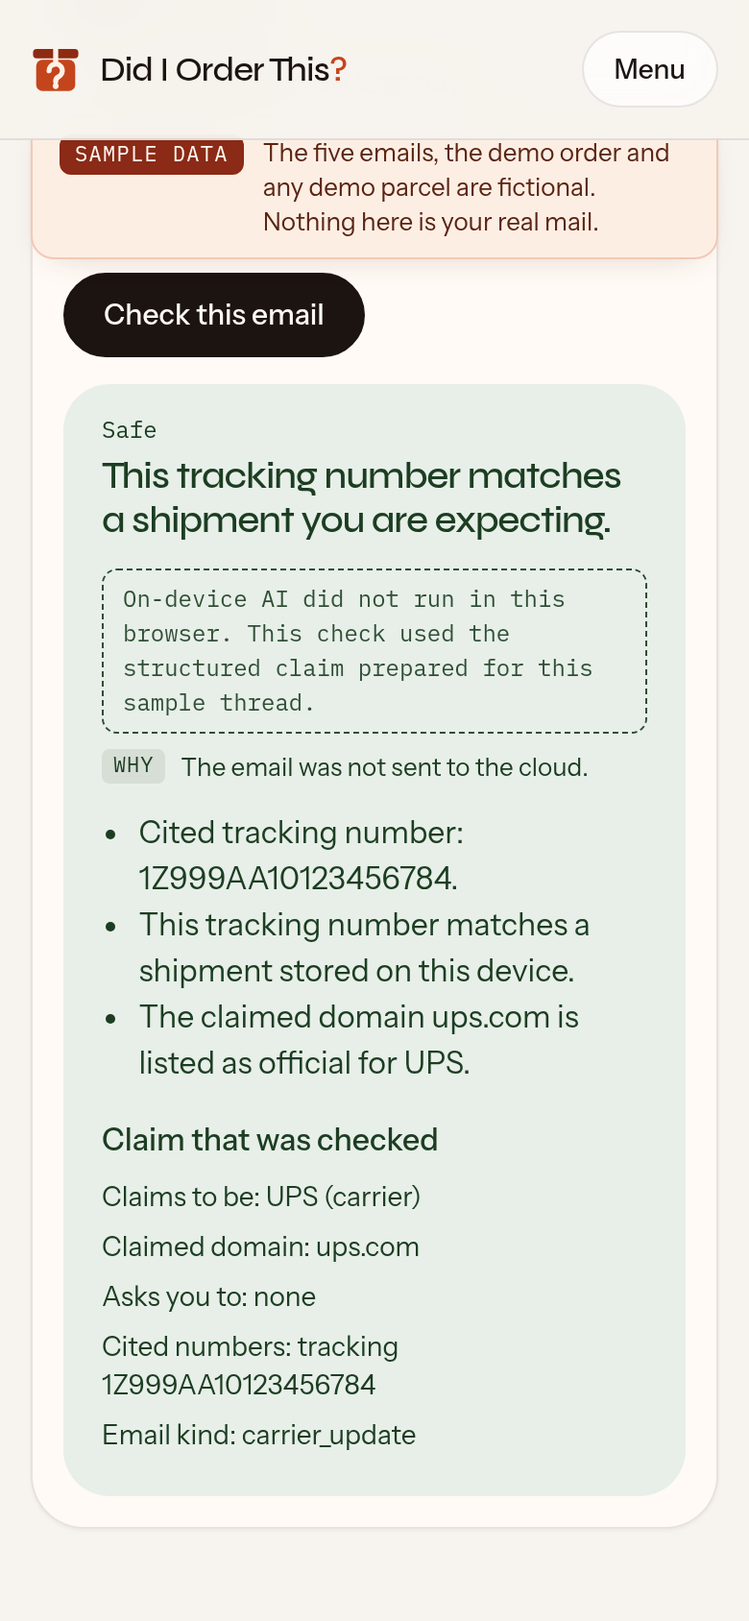
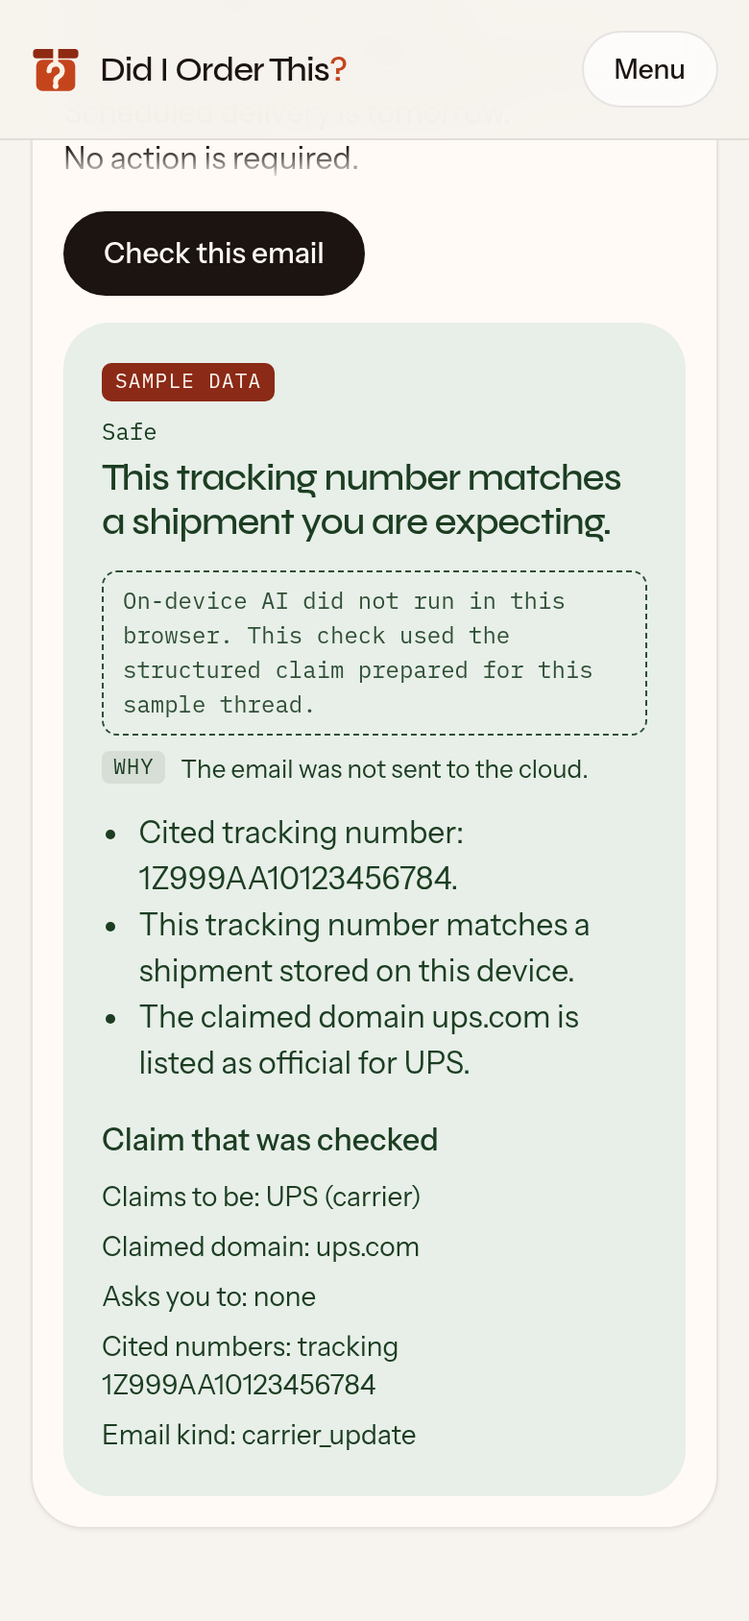
Record the S25 cloud walk and refresh proofs after UI-NEXT 11 and 12
The Galaxy S25 Chrome Android cloud path is now proven, including Ask me
each time. Telegram and X in-app browsers also returned Checked in the
cloud. README screenshots retaken at 390 px from production 598cf21.
On-device film runs 44009266512 and 44009272463 passed. UI-NEXT 11 to 13
marked done; item 14 notes a 1280x800 desktop scroll gap.

diff --git a/README.md b/README.md
@@ -3,7 +3,7 @@
 **For judges:** open the [sample inbox](https://did-i-order-this.vercel.app/app/), click the first thread (**DHL Express Desk**, **Your parcel is held. Pay the release fee.**), click **Check this email**, and read the verdict: **You're not expecting any parcel right now.** Then click **Load the matching shipment demo** and check the UPS email: **This tracking number matches a shipment you are expecting.** No login.
 
 <p align="center">
-  <img src="docs/images/sample-verdict-prepared.png" width="260" alt="The live sample inbox at 390-pixel width after Do not send, under the Sample data bar: Warning, You're not expecting any parcel right now, with the note that on-device AI did not run and the structured claim prepared for this sample thread was used, plus the reasons and the claim that was checked.">
+  <img src="docs/images/sample-verdict-prepared.png" width="260" alt="The live sample inbox at 390-pixel width after Do not send: a SAMPLE DATA tag on the verdict card, Warning, You're not expecting any parcel right now, with the note that on-device AI did not run and the structured claim prepared for this sample thread was used, plus the reasons and the claim that was checked.">
 </p>
 
 **Check a delivery or billing email against the orders and tracking numbers on your own device, before you click.**
@@ -42,11 +42,11 @@ To check the code itself: `npm ci`, then `npm run verify`. It prints `PASS` or `
 
 ## Proof It's Real
 
-- **On-device run on the current build, public GitHub runner:** [nano-film run 43968899989](https://github.com/ohjay-official/nano-film/actions/runs/43968899989) (16 Nov 2026, 23:20 Africa/Lagos, production at `f87d165`, after the UI-NEXT commits) loaded the live `/app/` page in Chrome 157.0.8103.50 with Gemini Nano and got **Checked on this device** (`inferenceSource` `on_device`), **Warning**, **You're not expecting any parcel right now.**, and no cloud consent. The run just before it ([43967837755](https://github.com/ohjay-official/nano-film/actions/runs/43967837755)) failed before the page check, because Chrome on that runner could not start a Nano session; the rerun passed. Earlier runs: [43950308139](https://github.com/ohjay-official/nano-film/actions/runs/43950308139) (16 Nov, `9c6e0cc`), [43947306478](https://github.com/ohjay-official/nano-film/actions/runs/43947306478) (16 Nov, `9098021`), [43682923396](https://github.com/ohjay-official/nano-film/actions/runs/43682923396) (15 Nov) and [43219012008](https://github.com/ohjay-official/nano-film/actions/runs/43219012008) (12 Nov). Private 2 vCPU runners cannot run Nano, so the proof runs from the public `ohjay-official/nano-film` repo; this repo keeps a copy of the workflow at `.github/workflows/on-device-demo.yml`.
-- **Extension on-device run, public GitHub runner:** [nano-film run 43967844787](https://github.com/ohjay-official/nano-film/actions/runs/43967844787) (16 Nov 2026, 23:15 Africa/Lagos, production at `f87d165`) downloaded the live judge zip, loaded it unpacked into Chrome 157.0.8103.50 with Gemini Nano, opened the side panel on a local Gmail-thread fixture, and got **Checked on this device** (`on_device`), the same headline, and no cloud consent. The runner adds `http://127.0.0.1:8123/*` to the installed manifest's content script matches because it cannot sign into Gmail; the JavaScript in the zip is unchanged. Earlier passes: [43952581780](https://github.com/ohjay-official/nano-film/actions/runs/43952581780) (16 Nov, `9c6e0cc`, after one runner that could not start Nano, [43950314547](https://github.com/ohjay-official/nano-film/actions/runs/43950314547)), [43947314820](https://github.com/ohjay-official/nano-film/actions/runs/43947314820) (16 Nov) and [43685102643](https://github.com/ohjay-official/nano-film/actions/runs/43685102643) (15 Nov).
+- **On-device run on the current build, public GitHub runner:** [nano-film run 44009266512](https://github.com/ohjay-official/nano-film/actions/runs/44009266512) (17 Nov 2026, 04:18 to 04:24 Africa/Lagos, production at `598cf21`, after UI-NEXT 11 and 12) loaded the live `/app/` page in Chrome 157.0.8103.50 with Gemini Nano and got **Checked on this device** (`inferenceSource` `on_device`), **Warning**, **You're not expecting any parcel right now.**, and no cloud consent. Earlier runs: [43968899989](https://github.com/ohjay-official/nano-film/actions/runs/43968899989) (16 Nov, `f87d165`, after one runner that could not start Nano, [43967837755](https://github.com/ohjay-official/nano-film/actions/runs/43967837755)), [43950308139](https://github.com/ohjay-official/nano-film/actions/runs/43950308139) (16 Nov, `9c6e0cc`), [43947306478](https://github.com/ohjay-official/nano-film/actions/runs/43947306478) (16 Nov, `9098021`), [43682923396](https://github.com/ohjay-official/nano-film/actions/runs/43682923396) (15 Nov) and [43219012008](https://github.com/ohjay-official/nano-film/actions/runs/43219012008) (12 Nov). Private 2 vCPU runners cannot run Nano, so the proof runs from the public `ohjay-official/nano-film` repo; this repo keeps a copy of the workflow at `.github/workflows/on-device-demo.yml`.
+- **Extension on-device run, public GitHub runner:** [nano-film run 44009272463](https://github.com/ohjay-official/nano-film/actions/runs/44009272463) (17 Nov 2026, 04:18 to 04:23 Africa/Lagos, production at `598cf21`) downloaded the live judge zip, loaded it unpacked into Chrome 157.0.8103.50 with Gemini Nano, opened the side panel on a local Gmail-thread fixture, and got **Checked on this device** (`on_device`), the same headline, and no cloud consent. The runner adds `http://127.0.0.1:8123/*` to the installed manifest's content script matches because it cannot sign into Gmail; the JavaScript in the zip is unchanged. Earlier passes: [43967844787](https://github.com/ohjay-official/nano-film/actions/runs/43967844787) (16 Nov, `f87d165`), [43952581780](https://github.com/ohjay-official/nano-film/actions/runs/43952581780) (16 Nov, `9c6e0cc`, after one runner that could not start Nano, [43950314547](https://github.com/ohjay-official/nano-film/actions/runs/43950314547)), [43947314820](https://github.com/ohjay-official/nano-film/actions/runs/43947314820) (16 Nov) and [43685102643](https://github.com/ohjay-official/nano-film/actions/runs/43685102643) (15 Nov).
 - **What Nano actually returned** in run 43947306478: the display name **DHL Express Desk** as the domain and the fee **$2.99** as the only cited number, missing the tracking number. The verdict was still right because the claim said carrier and no parcel was expected. Since then, `reconcileClaim()` in `packages/core/src/reconcile.ts` fills both gaps from the email text in code (sender domain from the From line, tracking-shaped numbers from the body), so the UPS match no longer depends on the model spotting the number. In run 43950308139, on the build with `reconcileClaim()`, the checked claim showed the domain `dhl-parcel-desk.example` and the tracking number GM123456789012345.
-- **Cloud check on the current build:** not recorded yet. The build machine's automated Chrome is rejected by App Check (reCAPTCHA Enterprise), and the page then shows the prepared-claim note with **The cloud check could not run. This page could not prove it is the real site (App Check). Reload the page and try again.** A real-phone cloud test is pending.
-- **Tests:** 164 unit tests (core 66, web 85, extension 13), re-run 16 Nov 2026 (Africa/Lagos). `npm test` runs them. Core coverage the same day: 96.95% statements (446/460) and 89.61% branches (345/385), gated at 95% statements and 85% branches in `packages/core/vitest.config.ts`.
+- **Cloud check on the current build:** recorded 17 Nov 2026 (Africa/Lagos) on a Galaxy S25. In Chrome Android, against production `db64fcc`, the first DHL thread after **Check in the cloud** showed **Warning**, **You're not expecting any parcel right now.**, **Checked in the cloud**, and **Ask me each time**. After **Load the matching shipment demo**, the UPS thread showed **Safe**, **This tracking number matches a shipment you are expecting.**, **Checked in the cloud**, with no second consent dialog. The same morning, after UI-NEXT 11 and 12 (`598cf21`), the Telegram and X in-app browsers on that phone each checked the first DHL thread with the demo shipment already stored and showed **Warning**, **This tracking number is not one of your shipments.**, **Checked in the cloud**, the **SAMPLE DATA** tag on the verdict card, and **Ask me each time**. The model-filled claim text varied (Telegram: **Claims to be: DHL (carrier)**, **Email kind: carrier_update**; X: **Claims to be: DHL Express Desk (carrier)**, **Email kind: delivery_problem**); the verdict was the same, because code decides it. The build machine's automated Chrome is still rejected by App Check (reCAPTCHA Enterprise) and then shows the prepared-claim note.
+- **Tests:** 164 unit tests (core 66, web 85, extension 13), re-run 17 Nov 2026 (Africa/Lagos). `npm test` runs them. Core coverage the same day: 96.95% statements (446/460) and 89.61% branches (345/385), gated at 95% statements and 85% branches in `packages/core/vitest.config.ts`.
 - **CI:** `.github/workflows/ci.yml` runs `npm run verify -- --offline` on every push to `main` and on pull requests.
 - **Lighthouse** (mobile, production `c94c806`, 16 Nov 2026, run from the build machine): Accessibility, Best Practices and SEO 100 on all 9 routes; Performance 99 or 100 on all 9 (home 99, Total Blocking Time 20 ms). Earlier the same day the home page scored 80 and `/features/` Accessibility 91; both were fixed by the UI owner.
 - **No real users yet.** Three testers are scheduled for 26 to 28 Nov 2026.
@@ -82,8 +82,8 @@ Platform and prize category names are taken from the [#BuildHybridAI 2026](https
 | Prepared-claim fallback on sample threads when on-device AI and the cloud are not used or fail | Works on the live site (walked on 16 Nov 2026 in desktop Chrome at 1280 and 390 pixels) |
 | **Load the matching shipment demo** after the first check | Works on the live site |
 | On-device check through Firebase AI Logic (Gemini Nano in Chrome) | Works where Chrome's on-device model is available; proven on a public runner (links above) |
-| Cloud check after consent | Built and called on the live site. A cloud verdict on the current build is not recorded yet (see Proof) |
-| Remember a cloud yes for sample threads until the tab closes | Works; **Ask me each time** clears it. Pasted emails are always asked about |
+| Cloud check after consent | Works on the live site. Recorded 17 Nov 2026 on a Galaxy S25 in Chrome Android, and again in the Telegram and X in-app browsers (see Proof) |
+| Remember a cloud yes for sample threads until the tab closes | Works; **Ask me each time** clears it. Pasted emails are always asked about. The remembered-yes note and **Ask me each time** were seen on the S25 Chrome, Telegram and X runs |
 | Limited check with no AI | Works |
 | Paste your own email and check it | Works |
 | Import order history (Amazon ZIP or CSV, PayPal CSV, generic CSV), parsed in the browser | Works |
@@ -160,12 +160,12 @@ Permissions: `storage` and `sidePanel` only, plus a content script on `https://m
   <img src="docs/images/home.png" width="160" alt="The live home page at 390-pixel width, with the headline Got a parcel email? See if it's yours, and a Check field.">
   <img src="docs/images/sample-inbox.png" width="160" alt="The sample inbox on the live site at 390-pixel width: the Sample data bar, the line 1 order and 0 expected parcels are stored on this device, a swipeable row of threads with DHL Express Desk open, and the Check this email button on the first screen.">
   <img src="docs/images/cloud-consent.png" width="160" alt="The cloud consent dialog on the live sample inbox at 390-pixel width, titled Check this email in the cloud, with Check in the cloud and Do not send buttons; keyboard focus starts on Do not send.">
-  <img src="docs/images/ups-match-prepared.png" width="160" alt="The UPS sample email after Load the matching shipment demo, at 390-pixel width: Safe, This tracking number matches a shipment you are expecting, using the structured claim prepared for this sample thread.">
+  <img src="docs/images/ups-match-prepared.png" width="160" alt="The UPS sample email after Load the matching shipment demo, at 390-pixel width: a SAMPLE DATA tag on the verdict card, Safe, This tracking number matches a shipment you are expecting, using the structured claim prepared for this sample thread.">
 </p>
 
-<p align="center"><em>Captures of the live site on 16 Nov 2026 (Africa/Lagos), at 390-pixel width, with sample data. The two verdicts use the prepared sample claim (Do not send), not an AI read.</em></p>
+<p align="center"><em>Captures of the live site on 17 Nov 2026 (Africa/Lagos), at 390-pixel width, after UI-NEXT 11 and 12, with sample data. The two verdicts use the prepared sample claim (Do not send), not an AI read. On phones the SAMPLE DATA tag sits on the verdict card.</em></p>
 
-A live AI verdict could not be captured from the machine that wrote this README: its Chrome has no Gemini Nano, and App Check rejects the automated browser. The on-device verdict is in the runner proof linked above.
+A live on-device AI verdict could not be captured from the machine that wrote this README: its Chrome has no Gemini Nano, and App Check rejects the automated browser. The on-device verdict is in the runner proof linked above. A live cloud verdict was recorded on a Galaxy S25 (see Proof); those phone screenshots stay off this repo because they include browser chrome or a status bar.
 
 ## What It Does
 
@@ -251,7 +251,7 @@ git log --reverse --format='%h %ad %s' --date=iso | head -3
   - **Demonstration video:** required on the Devpost form, at most 3 minutes, on YouTube. `TBD-post-build: film URL`
   - **No production secrets in the repo, form, or testing instructions:** `.env.example` uses placeholders only; `npm run verify` scans for secrets.
 
-- **AI code:** Grok Bot wrote the product code, the tests, the docs, and the verify pipeline, directed by Oh-Jay. Claude did the planning on 11 and 12 Nov 2026, and Claude Opus 5.5 landed the v7 UI commits on `main` on 15 Nov 2026 (`16fc66e`, `b1f076d`, `8bb5936`) and the ten UI-NEXT commits on 16 Nov 2026 (`184f42f` to `f87d165`), each with a Co-Authored-By line; UI and UX work is Claude's. Oh-Jay chose the idea, wrote the product and design briefs, made the product decisions, and reviewed every build on his phone.
+- **AI code:** Grok Bot wrote the product code, the tests, the docs, and the verify pipeline, directed by Oh-Jay. Claude did the planning on 11 and 12 Nov 2026, and Claude Opus 5.5 landed the v7 UI commits on `main` on 15 Nov 2026 (`16fc66e`, `b1f076d`, `8bb5936`), the ten UI-NEXT commits on 16 Nov 2026 (`184f42f` to `f87d165`), and UI-NEXT 11 and 12 on 17 Nov 2026 (`720cdbd`, `598cf21`), each with a Co-Authored-By line; UI and UX work is Claude's. Oh-Jay chose the idea, wrote the product and design briefs, made the product decisions, and reviewed every build on his phone.
 - **Earlier work reused:** the on-device warm-up approach in `e2e/` follows Oh-Jay's own `nano-probe` test from 12 Nov 2026. Photos, the globe texture, the hands, and the freight clip are media files Oh-Jay supplied. The CSS follows parts of the unslop design checklist by Damir Sokolovsky (CC BY 4.0), credited in `web/src/styles-v6.css`.
 - **The live site will stay up through judging and after.**
 
@@ -270,6 +270,7 @@ Services: Firebase AI Logic with the Gemini Developer API (model `gemini-3.5-fla
 - **13 and 14 Nov 2026:** no commits.
 - **15 Nov 2026 (15 commits, 3 of them Claude's UI):** v6 landing (globe, freight scroll, night footer) and VP9 video fallback; v6.1 real media and footer; v6.2 logo, favicons, per-page meta and OG images, JSON-LD, privacy policy, Vercel Analytics and Speed Insights, client cloud budget, contrast fixes, faster hero; backend pass: extension messaging checks and fewer permissions, judge zip, plain-language AI errors, the free-tier review notice on the consent dialog, CSP and security headers, lint, more tests with a coverage gate, `npm run verify`; README and the extension on-device proof citation; Claude's v7 UI commits.
 - **16 Nov 2026:** judge-demo fixes (fail fast without an on-device model, client cloud cap raised to 10 a minute, tab-session memory for a cloud yes, the matching shipment demo loader, the prepared-claim fallback on sample threads, a 20-second cloud timeout, the `/extension-demo/` test page, `docs/TESTING.md`); Node 22.22 as the minimum; this README; the pre-submit test run and its fixes (lookalike-domain warning, claim gap filling, 20,000-character model input cap, consent dialog keyboard); a pre-submit QA pass that stopped a re-imported order history from adding duplicate orders and shipments, and fixed the privacy policy to name the real consent button; Claude's ten UI-NEXT commits (Sample data bar, swipeable thread row on phones, styled notes and focus ring, extension test page link and style, Real UPS chip note, `/features/` contrast, faster home page, consent mockups matching the real dialog); a fix so the homepage Real UPS chip keeps its demo shipment on a brand-new device.
+- **17 Nov 2026:** Claude's UI-NEXT 11 and 12 (`720cdbd`, `598cf21`): after a check, the verdict card scrolls into view on phones (headline at y=153 of 844); the Sample data bar is no longer sticky on phones, and a SAMPLE DATA tag sits on the verdict card. A Galaxy S25 cloud walk in Chrome Android, then in the Telegram and X in-app browsers, recorded real **Checked in the cloud** verdicts. On-device proofs were re-run on production `598cf21` (nano-film 44009266512 and 44009272463).
 
 </details>
 

diff --git a/docs/TESTING.md b/docs/TESTING.md
@@ -1,6 +1,6 @@
 # Testing Did I Order This?
 
-Do-this, see-this steps for judges and testers. Every quoted string below was read off the screen on 16 Nov 2026 (Africa/Lagos), first in a local build and then again on the live site after the merge (`72f7212`), unless the step says otherwise. Steps 1 (Path C) and 2 were walked again on the live site at `9c6e0cc` the same evening, at 390 pixels, with the same strings, and again after the UI update at `f87d165` (16 Nov, 23:00 to 23:30 Africa/Lagos). Section 4 was re-checked at `c94c806`. No keys, tokens or accounts are needed.
+Do-this, see-this steps for judges and testers. Every quoted string below was read off the screen on 16 Nov 2026 (Africa/Lagos), first in a local build and then again on the live site after the merge (`72f7212`), unless the step says otherwise. Steps 1 (Path C) and 2 were walked again on the live site at `9c6e0cc` the same evening, at 390 pixels, with the same strings, and again after the UI update at `f87d165` (16 Nov, 23:00 to 23:30 Africa/Lagos) and after UI-NEXT 11 and 12 at `598cf21` (17 Nov, 04:18 to 04:25 Africa/Lagos). Section 4 was re-checked at `c94c806`. Path B (a real cloud verdict) was walked on a Galaxy S25 on 17 Nov 2026, first in Chrome Android at production `db64fcc`, then in the Telegram and X in-app browsers after `598cf21`. No keys, tokens or accounts are needed.
 
 Live site: https://did-i-order-this.vercel.app (sample inbox at `/app/`).
 
@@ -8,13 +8,13 @@ Live site: https://did-i-order-this.vercel.app (sample inbox at `/app/`).
 
 Open https://did-i-order-this.vercel.app/app/. The header says **1 order and 0 expected parcels are stored on this device.** If it shows a different count (for example after you tried the homepage chips), click **Reset demo data** first.
 
-1. Click the first thread, **DHL Express Desk**, **Your parcel is held. Pay the release fee.**, then click **Check this email**. On a phone the threads are one row you can swipe sideways, and **Check this email** is on the first screen; the verdict appears just below it, so scroll down a little.
+1. Click the first thread, **DHL Express Desk**, **Your parcel is held. Pay the release fee.**, then click **Check this email**. On a phone the threads are one row you can swipe sideways, and **Check this email** is on the first screen. After a check, the verdict card scrolls into view under the site header. On phones a **SAMPLE DATA** tag sits on the card itself (the Sample data bar at the top of the page is not sticky).
 2. What happens next depends on your browser. Pick the path that matches.
 
 ### Path A: Chrome with on-device AI (Gemini Nano)
 
 - No dialog appears. You see **Warning**, **You're not expecting any parcel right now.**, and **Checked on this device**.
-- Recorded on the current build on a GitHub runner with Nano: nano-film run 43968899989 (16 Nov 2026, production `f87d165`). The machine used for the other steps has no Gemini Nano.
+- Recorded on the current build on a GitHub runner with Nano: nano-film run 44009266512 (17 Nov 2026, production `598cf21`). The machine used for the other steps has no Gemini Nano.
 - To turn on-device AI on in desktop Chrome: the hackathon FAQ says to open `chrome://flags`, search for **Gemma 4 for Built-in AI**, enable it, and relaunch. The runner instead enables `chrome://flags/#optimization-guide-on-device-model` and `chrome://flags/#prompt-api-for-gemini-nano`. `chrome://on-device-internals` shows whether the model is ready. Chrome's hardware requirements apply.
 
 ### Path B: no on-device AI, you allow the cloud
@@ -22,7 +22,7 @@ Open https://did-i-order-this.vercel.app/app/. The header says **1 order and 0 e
 - A dialog asks **Check this email in the cloud?** with **Check in the cloud** and **Do not send**. Click **Check in the cloud**.
 - You should see **Warning**, **You're not expecting any parcel right now.**, **Checked in the cloud**, then **Your yes to cloud checks is remembered for sample emails until you close this tab.** and a button **Ask me each time**.
 - Later sample threads in the same tab go straight to the cloud without the dialog. A pasted email is always asked about.
-- Not run on this box: reCAPTCHA Enterprise rejects automated Chrome, so a real cloud verdict could not be produced here. The strings come from the code.
+- Walked on a Galaxy S25 on 17 Nov 2026 (Africa/Lagos). In Chrome Android, against production `db64fcc`: the first DHL thread after **Check in the cloud** showed **Warning**, **You're not expecting any parcel right now.**, **Checked in the cloud**, the remembered-yes note and **Ask me each time**. After **Load the matching shipment demo**, the UPS thread showed **Safe**, **This tracking number matches a shipment you are expecting.**, **Checked in the cloud**, with no second consent dialog, and the header said **1 order and 1 expected parcel**. The same morning, after UI-NEXT 11 and 12 (`598cf21`), the Telegram and X in-app browsers on that phone each checked the first DHL thread with the demo shipment already stored and showed **Warning**, **This tracking number is not one of your shipments.**, **Checked in the cloud**, the **SAMPLE DATA** tag on the verdict card, the remembered-yes note and **Ask me each time**. The model-filled claim text varied (Telegram: **Claims to be: DHL (carrier)**, **Email kind: carrier_update**; X: **Claims to be: DHL Express Desk (carrier)**, **Email kind: delivery_problem**); the verdict was the same, because code decides it. WhatsApp on Android has no in-app browser (it opens Chrome). reCAPTCHA Enterprise still rejects automated Chrome on the build machine, so that box cannot produce a cloud verdict itself.
 
 ### Path C: no on-device AI, you click Do not send
 
@@ -82,7 +82,7 @@ On https://did-i-order-this.vercel.app, in a browser without on-device AI and wi
 1. Download https://did-i-order-this.vercel.app/downloads/did-i-order-this-extension-0.1.0.zip and unzip it. If you downloaded it before 16 Nov 2026, download it again: the test page below needs the new copy.
 2. Open `chrome://extensions`, turn on **Developer mode**, click **Load unpacked**, and pick the inner `did-i-order-this-extension` folder.
 3. Open https://did-i-order-this.vercel.app/extension-demo/. It is labelled **Extension test fixture.** and says it is not Gmail. Open the extension's side panel from the toolbar. It shows the open sample email and **Check this email**. The buttons on the page switch between the five sample emails.
-4. With Gemini Nano you should see **Checked on this device** and the verdict (recorded on a runner with Nano on 16 Nov 2026 against the live zip, nano-film run 43967844787, using a local copy of this kind of page).
+4. With Gemini Nano you should see **Checked on this device** and the verdict (recorded on a runner with Nano on 17 Nov 2026 against the live zip, nano-film run 44009272463, using a local copy of this kind of page).
 5. Without Nano you see **Error** and **The AI read could not run. On-device AI is not available in this browser. This extension does not send mail to the cloud. Open https://did-i-order-this.vercel.app to check in the cloud after you agree, or run a limited check here.** Then **Run a limited check (no AI)** gives the limited check.
 
 The side panel and fixture were run on this box with the extension loaded unpacked and the fixture served at its live address. The extension is built to read an open Gmail thread at `mail.google.com`; a signed-in Gmail thread was not tested on this machine.

diff --git a/docs/VICTORY-TEST-2026-11-16.md b/docs/VICTORY-TEST-2026-11-16.md
@@ -8,10 +8,11 @@ PASS means the row's pass rule held. OPEN means only the owner can run it, or it
 
 | ID | Result | Evidence |
 | --- | --- | --- |
-| A1 | PARTIAL. No login; first DHL check shows **Check this email in the cloud?** with the free-tier review sentence. **Check in the cloud** on this machine fails App Check (automation), and the page falls back to the prepared claim: **Warning**, **You're not expecting any parcel right now.**, **The cloud check could not run. This page could not prove it is the real site (App Check). Reload the page and try again.** A real cloud verdict needs a human browser. | Scripted walk at 1280 px, headed Chrome |
+| A1 | PASS on a Galaxy S25 in Chrome Android (17 Nov 2026, production `db64fcc`): no login; first DHL check, **Check in the cloud**, **Warning**, **You're not expecting any parcel right now.**, **Checked in the cloud**. The automated machine used for the 16 Nov scripted walk is still PARTIAL: **Check in the cloud** fails App Check there, and the page falls back to the prepared claim with **The cloud check could not run. This page could not prove it is the real site (App Check). Reload the page and try again.** | S25 Chrome Android; scripted walk at 1280 px still shows the App Check fallback |
 | A2 | PASS. **Checked on this device**, `on_device`, same headline, no consent. | [nano-film 43947306478](https://github.com/ohjay-official/nano-film/actions/runs/43947306478) |
 | A3 | PASS. Loader, UPS **Safe**, second DHL **This tracking number is not one of your shipments.**, Streamhut **Neutral**, **Reset demo data** back to **1 order and 0 expected parcels**. After a cloud yes, later sample threads skip the dialog. | Scripted walk, 1280 and 390 px |
-| A4, A5 | OPEN: Oh-Jay's S25 (Chrome Android) and iPhone Safari. | |
+| A4 | PASS. Galaxy S25, Chrome Android, 17 Nov 2026, about 04:00 to 04:15 Africa/Lagos, production `db64fcc`. Step 1: **1 order and 0 expected parcels**. Step 2: first DHL, cloud yes, **Warning**, **You're not expecting any parcel right now.**, **Checked in the cloud**, **Ask me each time**. Step 3: **Load the matching shipment demo**, UPS, **Safe**, **This tracking number matches a shipment you are expecting.**, **Checked in the cloud**, no second consent dialog, **1 order and 1 expected parcel**. The first screenshot was in Chrome desktop-site mode; later ones used the phone layout. Both were fine. | Phone screenshots kept off this repo (browser chrome). Box evidence: `evidence/s25-cloud-2026-11-17/` on the build machine |
+| A5 | OPEN: iPhone Safari. Optional now that A4 and the Android in-app browsers have passed. | |
 | A6 | NOT RUN: no Firefox on the build machine. | |
 | A7 | PASS. No sideways scroll on 11 routes (9 sitemap routes, `/extension-demo/`, the 404) at 375, 390 and 1280 px. | `scrollWidth - clientWidth` |
 | A8 | PASS. Fake DHL warns; Real UPS stores the shipment first and shows **Safe**; Fake DHL afterwards says **This tracking number is not one of your shipments.** | Scripted run on `/` |
@@ -78,3 +79,21 @@ PASS means the row's pass rule held. OPEN means only the owner can run it, or it
 - G1: OPEN until the film exists.
 - G2: scorecard in the build notes, outside this repo.
 - G3 and G4: run from the build machine by following only the README and the live site. Mismatches found were fixed in the README in this run. A run by a separate AI session with no prior context is still to do once the repo is public.
+
+## Addendum, 17 Nov 2026 (Africa/Lagos)
+
+UI-NEXT 11 and 12 landed on `main` (`720cdbd`, `598cf21`) and were checked live on production:
+
+- After **Check this email** and **Do not send**, at 390 x 844 the verdict headline sits at y=153 (was about 830). The same landing after **Run a limited check** stays in view (y=691 of 844, already visible so the page does not scroll again). Instant scroll under `prefers-reduced-motion` (headline already at y=153 after 80 ms).
+- At 1280 x 800 after **Do not send**, the headline sits at y=754 of 800 and is treated as already visible, so the reasons sit below the fold. Handed to the UI owner as UI-NEXT item 14. Desktop demo bar stays sticky; no SAMPLE DATA tag on the card.
+- No sideways scroll on 11 routes at 375, 390 and 1280 px. Do-not-break selectors and the text "prepared for this sample thread" are intact. The SAMPLE DATA tag is a CSS `::before`, so `textContent` and `innerText` of `.result`, `.outcome` and `.headline` do not include it.
+- On-device proofs re-run on production `598cf21`: nano-film [44009266512](https://github.com/ohjay-official/nano-film/actions/runs/44009266512) (site) and [44009272463](https://github.com/ohjay-official/nano-film/actions/runs/44009272463) (extension), both **Checked on this device**, `on_device`, no consent.
+
+In-app browsers on the same S25, after the matching shipment demo was loaded, first DHL thread, cloud check, production `598cf21`:
+
+- Telegram in-app (about 04:18): PASS. **Warning**, **This tracking number is not one of your shipments.**, **Checked in the cloud**, **SAMPLE DATA** tag, **Ask me each time**. Claim text: **Claims to be: DHL (carrier)**, **Email kind: carrier_update**.
+- X in-app (about 04:26): PASS. Same verdict and labels as Telegram. Claim text: **Claims to be: DHL Express Desk (carrier)**, **Email kind: delivery_problem**.
+- WhatsApp on Android: N/A. It has no in-app browser and opens Chrome.
+- The model-filled claim text varied; the verdict was the same, because code decides it. No product fix.
+
+Phone originals stay on the build machine only. The Telegram and X shots include a status bar with personal notifications.

diff --git a/docs/UI-NEXT.md b/docs/UI-NEXT.md
@@ -29,16 +29,18 @@ Repo `ohjay-official/did-i-order-this`, `main`. Full background: `docs/HANDOFF-u
    - `div.belt` has `aria-label` with no role. Add a role (for example `role="region"`) or drop the label.
 7. **DONE** (`a6c7d5f`; Grok re-run on production: home Performance 98 to 99, Total Blocking Time 0 to 20 ms). Home Performance 80 on a re-run at `9c6e0cc` (87 earlier the same day), mobile Lighthouse: LCP 2.2 s, CLS 0, Total Blocking Time 780 ms. `main-*.js` takes about 3.7 s of throttled CPU at boot (globe and hero). Lazy-start the globe after first paint or on idle.
 8. **DONE** (`f87d165`, checked live by Grok 16 Nov). Consent mock on `/privacy/` (line ~108) and `/features/` (line ~96) still says **Send this email to the cloud?** and **Send this email**. The real dialog says **Check this email in the cloud?**, **Check in the cloud**, **Do not send**, plus the free-tier review sentence. Match the mock to the real dialog (Grok fixed only the policy fine print in PR #6).
-9. Phone checks only Oh-Jay can run, worth a look while styling: X, WhatsApp and Telegram in-app browsers on `/app/`; iPhone Safari safe areas. Grok's headless pass at 390 px in dark mode and with 200% root font size found no sideways scroll on 11 routes, but did not judge looks.
-10. **DONE 16 Nov:** README screenshots retaken at 390 px from production `f87d165`; nano-film site run 43968899989 and extension run 43967844787 passed with the selectors unchanged. After any UI change: retake the README screenshots in `docs/images/` at 390 px (Grok can do the capture), and re-run nano-film to confirm selectors.
+9. Phone checks only Oh-Jay can run. **DONE 17 Nov (Africa/Lagos) on a Galaxy S25, production `598cf21`:** Telegram in-app PASS and X in-app PASS (first DHL after the matching shipment demo: **Warning**, **This tracking number is not one of your shipments.**, **Checked in the cloud**, **SAMPLE DATA** tag, **Ask me each time**). WhatsApp on Android is N/A: it has no in-app browser and opens Chrome. **Still open (optional):** iPhone Safari safe areas. Grok's headless pass at 390 px in dark mode and with 200% root font size found no sideways scroll on 11 routes, but did not judge looks.
+10. **DONE 16 Nov, retaken 17 Nov:** README screenshots retaken at 390 px from production `598cf21` after UI-NEXT 11 and 12; nano-film site run 44009266512 and extension run 44009272463 passed with the selectors unchanged. After any UI change: retake the README screenshots in `docs/images/` at 390 px (Grok can do the capture), and re-run nano-film to confirm selectors.
 
 ## New UI items for Claude (found by Grok, 16 Nov 2026, 23:00 to 23:40 Africa/Lagos, production `f87d165`)
 
 Grok did not change any of these. Measured headless at 390 x 844 (Chrome, mobile emulation).
 
-11. **Verdict lands below the fold on a phone.** After **Check this email** (and after **Do not send**), the page does not move: the result headline starts at about y = 830 of an 844 px screen, so only the edge of the verdict card shows. Suggest scrolling the result into view after a check, landing below the sticky header and Sample data bar, with no smooth scroll under `prefers-reduced-motion`. Keep `.result`, `.headline` and `.outcome` as they are.
-12. **Sticky header plus Sample data bar cover about 135 px (16%) of the screen while you read a verdict.** Grok's screenshots had to scroll an extra 80 px so the headline was not hidden under the bar. Consider a one-line bar once stuck, or letting it scroll away after the first screen while keeping the playbook's "sample data" label visible somewhere on every screen.
-13. **Still unverified:** the styled "Ask me each time" row (needs a real cloud check; Oh-Jay's S25 test will show it).
+11. **DONE** (`720cdbd`, checked live by Grok 17 Nov on production `598cf21`). Verdict now scrolls into view after **Check this email** / **Do not send** and after **Run a limited check**. At 390 x 844 the headline sits at y=153 (was about 830). Instant scroll under `prefers-reduced-motion` (already at y=153 after 80 ms). `.result`, `.headline` and `.outcome` unchanged.
+12. **DONE** (`598cf21`, checked live by Grok 17 Nov). On phones (max-width 700 px) the Sample data bar is no longer sticky, and a **SAMPLE DATA** tag is painted on the verdict card with a CSS `::before`, so `textContent` and `innerText` of `.result`, `.outcome` and `.headline` do not include it. Desktop keeps the sticky one-line bar and has no tag on the card. After this change the phone headline lands at y=153 with `scroll-margin-top: 84px`.
+13. **DONE 17 Nov.** The styled **Ask me each time** row was seen on a Galaxy S25 after real cloud checks: Chrome Android (production `db64fcc`), then Telegram in-app and X in-app (production `598cf21`).
+
+14. **At 1280 x 800, after Do not send, the verdict only just peeks into view.** Checked live by Grok 17 Nov on production `598cf21`: the headline sits at y=754 of 800 (bottom 777). `revealResult()` treats that as already visible (16 px bottom pad) and does not scroll, so the reasons sit below the fold. On phones this is fixed (y=153). Consider scrolling when the card is only barely in the viewport, or when the reasons are off screen. Keep the do-not-break selectors and do not change `e2e/on-device.mjs`.
 
 ## Do not break (film and e2e)
 
